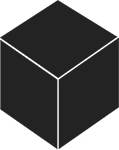
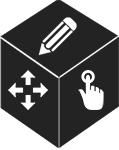
Added new display navigation image resources, updated layout.GraphPanel with navigation controls

diff --git a/src/com/graphi/display/layout/GraphPanel.java b/src/com/graphi/display/layout/GraphPanel.java
@@ -50,6 +50,7 @@ import java.awt.event.ActionListener;
 import java.awt.event.ItemEvent;
 import java.awt.event.ItemListener;
 import java.awt.event.MouseEvent;
+import java.awt.image.BufferedImage;
 import java.text.DecimalFormat;
 import java.text.MessageFormat;
 import java.util.AbstractMap;
@@ -61,6 +62,7 @@ import java.util.Date;
 import java.util.List;
 import java.util.Map;
 import java.util.PriorityQueue;
+import javax.swing.Box;
 import javax.swing.ButtonGroup;
 import javax.swing.ImageIcon;
 import javax.swing.JButton;
@@ -109,7 +111,7 @@ public class GraphPanel extends JPanel implements ItemListener, GraphMouseListen
     protected JComboBox gpRecEntries;
     protected MainPanel mainPanel;
     protected JCheckBox recordComputeCheck, recordStateCheck;
-    private DisplayNavigationPanel displayNavPanel;
+    private final DisplayNavigationPanel displayNavPanel;
 
     public GraphPanel(MainPanel mainPanel)
     {
@@ -149,16 +151,40 @@ public class GraphPanel extends JPanel implements ItemListener, GraphMouseListen
         add(controlPanel, BorderLayout.SOUTH);
     }
     
-    private class DisplayNavigationPanel extends JPanel
+    private class DisplayNavigationPanel extends JPanel implements ActionListener
     {
-        private final JLabel displayNavBgLabel;
+        private JButton moveBtn;
+        private JButton selectBtn;
+        private JButton editBtn;
+        private BufferedImage currentBG;
         
         private DisplayNavigationPanel()
         {
-            displayNavBgLabel    =   new JLabel();
-            displayNavBgLabel.setIcon(new ImageIcon(AppResources.getInstance().getResource("displayNavBackground")));
+            setPreferredSize(new Dimension(120, 150));
+            setLayout(new BorderLayout());
             
-            add(displayNavBgLabel);
+            moveBtn                 =   new JButton();
+            selectBtn               =   new JButton();
+            editBtn                 =   new JButton();
+            currentBG               =   AppResources.getInstance().getResource("displayNavBackground");
+            
+            ComponentUtils.setTransparentControl(moveBtn);
+            ComponentUtils.setTransparentControl(selectBtn);
+            ComponentUtils.setTransparentControl(editBtn);
+            
+            editBtn.setPreferredSize(new Dimension(40, 60));
+            moveBtn.setPreferredSize(new Dimension(60, 40));
+            selectBtn.setPreferredSize(new Dimension(60, 40));
+            Component botPadding    =   Box.createRigidArea(new Dimension(1, 20));
+            
+            add(editBtn, BorderLayout.NORTH);
+            add(moveBtn, BorderLayout.WEST);
+            add(selectBtn, BorderLayout.EAST);
+            add(botPadding, BorderLayout.SOUTH);
+            
+            editBtn.addActionListener(this);
+            moveBtn.addActionListener(this);
+            selectBtn.addActionListener(this);
         }
         
         @Override
@@ -167,6 +193,41 @@ public class GraphPanel extends JPanel implements ItemListener, GraphMouseListen
             super.paintComponent(g);
             g.setColor(Color.WHITE);
             g.fillRect(0, 0, getWidth(), getHeight());
+            g.drawImage(currentBG, 0, 0, null);
+        }
+        
+        private void toggleSelect()
+        {
+            currentBG   =   AppResources.getInstance().getResource("displayNavSelect");
+            repaint();
+        }
+        
+        private void toggleMove()
+        {
+            currentBG   =   AppResources.getInstance().getResource("displayNavMove");   
+            repaint();
+        }
+
+        private void toggleEdit()
+        {
+            currentBG   =   AppResources.getInstance().getResource("displayNavEdit");
+            repaint();
+        }
+        
+        @Override
+        public void actionPerformed(ActionEvent e) 
+        {
+            Object src  =   e.getSource();
+            
+            if(src == editBtn)
+                toggleEdit();
+            
+            else if(src == moveBtn)
+                toggleMove();
+            
+            else if(src == selectBtn)
+                toggleSelect();
+            
         }
     }
     

diff --git a/src/com/graphi/display/AppResources.java b/src/com/graphi/display/AppResources.java
@@ -82,6 +82,9 @@ public class AppResources
             resourceMap.put("viewTabIcon", getImage("viewTabIcon.png"));
             resourceMap.put("customizationTabIcon", getImage("customizationTabIcon.png"));
             resourceMap.put("displayNavBackground", getImage("displayNavBackground.png"));
+            resourceMap.put("displayNavSelect", getImage("displayNavSelect.png"));
+            resourceMap.put("displayNavMove", getImage("displayNavMove.png"));
+            resourceMap.put("displayNavEdit", getImage("displayNavEdit.png"));
         }
         
         catch(IOException e)
